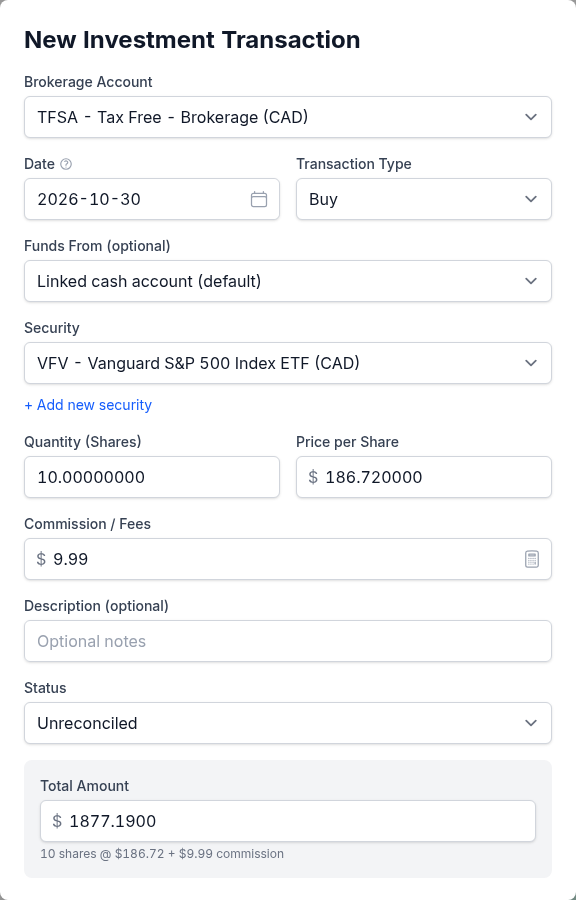
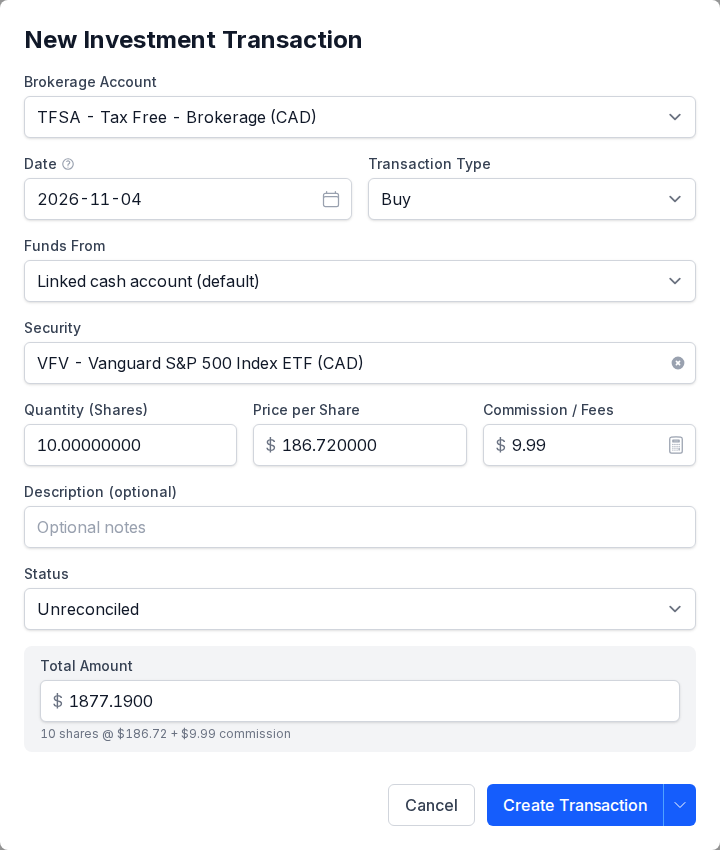
docs(website): retake the transaction and investment form screenshots
Both themes of investment-transaction-form, transaction-form,
transaction-quick-fill, split-transaction, transaction-transfer-form and
transaction-attachments, from the e2e stack built from this branch, then
compressed losslessly with oxipng. The warranties pictures that show the
form's Warranties line were not retaken: warranties.spec.ts's setup needs a
Best Buy purchase on or before 2025-12-09, which today's demo data does not
hold.

diff --git a/website/docs/transactions.html b/website/docs/transactions.html
@@ -10,7 +10,7 @@
 <li>Click <strong>+ New Transaction</strong></li>
 <li>Fill in the <strong>New Transaction</strong> form:</li>
 </ol>
-<figure><img src="/docs/images/transaction-form.png" alt="The New Transaction form" width="1104" height="900" loading="lazy" decoding="async" class="shot-dark"/><img src="/docs/images/transaction-form.light.png" alt="The New Transaction form" width="1104" height="900" loading="lazy" decoding="async" class="shot-light"/><figcaption>The New Transaction form</figcaption></figure>
+<figure><img src="/docs/images/transaction-form.png" alt="The New Transaction form" width="1104" height="700" loading="lazy" decoding="async" class="shot-dark"/><img src="/docs/images/transaction-form.light.png" alt="The New Transaction form" width="1104" height="700" loading="lazy" decoding="async" class="shot-light"/><figcaption>The New Transaction form</figcaption></figure>
 <p>The three buttons at the top of the form choose what you are entering: a <strong>Transaction</strong>, a <strong>Split</strong> across several categories (see <a href="#split-transactions">Split Transactions</a>), or a <strong>Transfer</strong> between accounts (see <a href="#transfers-between-accounts">Transfers Between Accounts</a>).</p>
 <ol start="4">
 <li>Click <strong>Create Transaction</strong>. The arrow beside it offers <strong>Create Transaction &amp; New</strong>, which saves and starts another, keeping the account and date.</li>
@@ -30,7 +30,7 @@
 <p>If the payee does not exist, type its name and choose to create it, directly from the transaction form without leaving the page. A category can be created the same way, including a subcategory written as <code>Parent: Child</code>.</p>
 <h3 id="quick-fill-from-recent-transactions">Quick Fill from Recent Transactions<a class="hlink" href="#quick-fill-from-recent-transactions" aria-label="Link to this section">#</a></h3>
 <p>The transaction form includes a <strong>history button</strong> (clock icon) next to the Payee field. Clicking it opens a popover listing recent transactions, and selecting one quick-fills the form with the payee, category, amount, description, and tags from that transaction. You can then adjust any field before saving.</p>
-<figure><img src="/docs/images/transaction-quick-fill.png" alt="The quick-fill popover listing recent transactions" width="1104" height="900" loading="lazy" decoding="async" class="shot-dark"/><img src="/docs/images/transaction-quick-fill.light.png" alt="The quick-fill popover listing recent transactions" width="1104" height="900" loading="lazy" decoding="async" class="shot-light"/><figcaption>The quick-fill popover listing recent transactions</figcaption></figure>
+<figure><img src="/docs/images/transaction-quick-fill.png" alt="The quick-fill popover listing recent transactions" width="1104" height="700" loading="lazy" decoding="async" class="shot-dark"/><img src="/docs/images/transaction-quick-fill.light.png" alt="The quick-fill popover listing recent transactions" width="1104" height="700" loading="lazy" decoding="async" class="shot-light"/><figcaption>The quick-fill popover listing recent transactions</figcaption></figure>
 <p>The history button appears on the <strong>new transaction</strong> form only -- it is hidden when editing an existing transaction. It is also available in <a href="#split-transactions">split mode</a>: selecting a recent split entry copies its payee and rebuilds the split rows from the source transaction.</p>
 <h4 id="two-modes">Two Modes<a class="hlink" href="#two-modes" aria-label="Link to this section">#</a></h4>
 <p>The popover behaves differently depending on whether a payee is selected:</p>
@@ -58,7 +58,7 @@
 <li>On a new transaction the files are uploaded when you save it</li>
 </ul>
 <p>Click an attachment to preview it inside Monize: images at <strong>Fit to screen</strong> or <strong>Actual size</strong>, PDFs page by page, with <strong>Download</strong> at the bottom.</p>
-<figure><img src="/docs/images/transaction-attachments.png" alt="A hotel bill paid in euros, with its invoice attached" width="1104" height="900" loading="lazy" decoding="async" class="shot-dark"/><img src="/docs/images/transaction-attachments.light.png" alt="A hotel bill paid in euros, with its invoice attached" width="1104" height="900" loading="lazy" decoding="async" class="shot-light"/><figcaption>A hotel bill paid in euros, with its invoice attached</figcaption></figure>
+<figure><img src="/docs/images/transaction-attachments.png" alt="A hotel bill paid in euros, with its invoice attached" width="1104" height="762" loading="lazy" decoding="async" class="shot-dark"/><img src="/docs/images/transaction-attachments.light.png" alt="A hotel bill paid in euros, with its invoice attached" width="1104" height="762" loading="lazy" decoding="async" class="shot-light"/><figcaption>A hotel bill paid in euros, with its invoice attached</figcaption></figure>
 <p>The register has an <strong>Attachments</strong> column with the count, and the <strong>Attachments</strong> filter (<strong>Any</strong>, <strong>Yes</strong>, <strong>No</strong>) finds the transactions still missing a receipt. Beside the attachments, <strong>Add warranty</strong> records a <a href="/docs/warranties">warranty</a> for the purchase.</p>
 <h2 id="transaction-list">Transaction List<a class="hlink" href="#transaction-list" aria-label="Link to this section">#</a></h2>
 <figure><img src="/docs/images/transactions-list.png" alt="The transaction list" width="1600" height="1000" loading="lazy" decoding="async" class="shot-dark"/><img src="/docs/images/transactions-list.light.png" alt="The transaction list" width="1600" height="1000" loading="lazy" decoding="async" class="shot-light"/><figcaption>The transaction list</figcaption></figure>
@@ -148,7 +148,7 @@
 <li>Optionally choose a <strong>Payee</strong> and a <strong>Category</strong> (see the note below)</li>
 <li>Click <strong>Create Transfer</strong></li>
 </ol>
-<figure><img src="/docs/images/transaction-transfer-form.png" alt="The transfer form" width="1104" height="900" loading="lazy" decoding="async" class="shot-dark"/><img src="/docs/images/transaction-transfer-form.light.png" alt="The transfer form" width="1104" height="900" loading="lazy" decoding="async" class="shot-light"/><figcaption>The transfer form</figcaption></figure>
+<figure><img src="/docs/images/transaction-transfer-form.png" alt="The transfer form" width="1104" height="838" loading="lazy" decoding="async" class="shot-dark"/><img src="/docs/images/transaction-transfer-form.light.png" alt="The transfer form" width="1104" height="838" loading="lazy" decoding="async" class="shot-light"/><figcaption>The transfer form</figcaption></figure>
 <p>Monize creates two linked transactions -- one in each account. The source account shows a withdrawal and the destination shows a deposit. Editing or deleting either side changes both.</p>
 <p>You can also turn an existing transaction into a transfer, or a transfer back into a transaction, by switching its mode in the edit form and clicking <strong>Convert to Transfer</strong> (or <strong>Convert to Transaction</strong>).</p>
 <aside class="callout callout-note">

diff --git a/website/docs/investments.html b/website/docs/investments.html
@@ -92,7 +92,7 @@
 <li>Pick the <strong>Brokerage Account</strong> and the <strong>Transaction Type</strong></li>
 <li>Fill in the details and click <strong>Create Transaction</strong></li>
 </ol>
-<figure><img src="/docs/images/investment-transaction-form.png" alt="The New Investment Transaction form, filled in for a purchase" width="576" height="900" loading="lazy" decoding="async" class="shot-dark"/><img src="/docs/images/investment-transaction-form.light.png" alt="The New Investment Transaction form, filled in for a purchase" width="576" height="900" loading="lazy" decoding="async" class="shot-light"/><figcaption>The New Investment Transaction form, filled in for a purchase</figcaption></figure>
+<figure><img src="/docs/images/investment-transaction-form.png" alt="The New Investment Transaction form, filled in for a purchase" width="720" height="850" loading="lazy" decoding="async" class="shot-dark"/><img src="/docs/images/investment-transaction-form.light.png" alt="The New Investment Transaction form, filled in for a purchase" width="720" height="850" loading="lazy" decoding="async" class="shot-light"/><figcaption>The New Investment Transaction form, filled in for a purchase</figcaption></figure>
 <h3 id="transaction-fields">Transaction Fields<a class="hlink" href="#transaction-fields" aria-label="Link to this section">#</a></h3>
 <div class="table-wrap"><table><thead><tr><th>Field</th><th>Description</th></tr></thead><tbody><tr><td><strong>Brokerage Account</strong></td><td>The investment account (for a transfer, <strong>From Account</strong> and <strong>To Account</strong>)</td></tr><tr><td><strong>Date</strong></td><td>Transaction date</td></tr><tr><td><strong>Transaction Type</strong></td><td>Buy, Sell, Dividend, and so on (see above)</td></tr><tr><td><strong>Funds From</strong> / <strong>Funds To</strong></td><td>For a buy or sell, the account the money comes from or goes to. The linked cash account is the default</td></tr><tr><td><strong>Security</strong></td><td>The security involved. Type to filter the list; when what you type matches no security, <strong>Create</strong> opens the new-security form with it filled in, without leaving the transaction</td></tr><tr><td><strong>Quantity (Shares)</strong></td><td>Number of shares or units</td></tr><tr><td><strong>Price per Share</strong></td><td>Price per share or unit</td></tr><tr><td><strong>Commission / Fees</strong></td><td>Any trading commission or fee. Quantity, price and commission share one line</td></tr><tr><td><strong>Description (optional)</strong></td><td>Optional notes</td></tr><tr><td><strong>Status</strong></td><td>Unreconciled, Cleared, Reconciled, or Void. A void transaction stays in the register but moves no shares and no cash</td></tr><tr><td><strong>Total Amount</strong></td><td>The total, calculated from quantity, price and commission; you can also type the total and Monize works out the price</td></tr></tbody></table></div>
 <p>Some types ask for different fields: a dividend, interest or distribution asks for an <strong>Amount</strong>; a stock split asks for <strong>New shares</strong> and <strong>Old shares</strong>; a transfer asks for the <strong>Cost per Share</strong>; a bond redemption asks for <strong>Accrued Interest</strong>. When the security trades in a different currency from the account, the form adds an <strong>Exchange rate</strong> and a <strong>Converted Total</strong>.</p>
